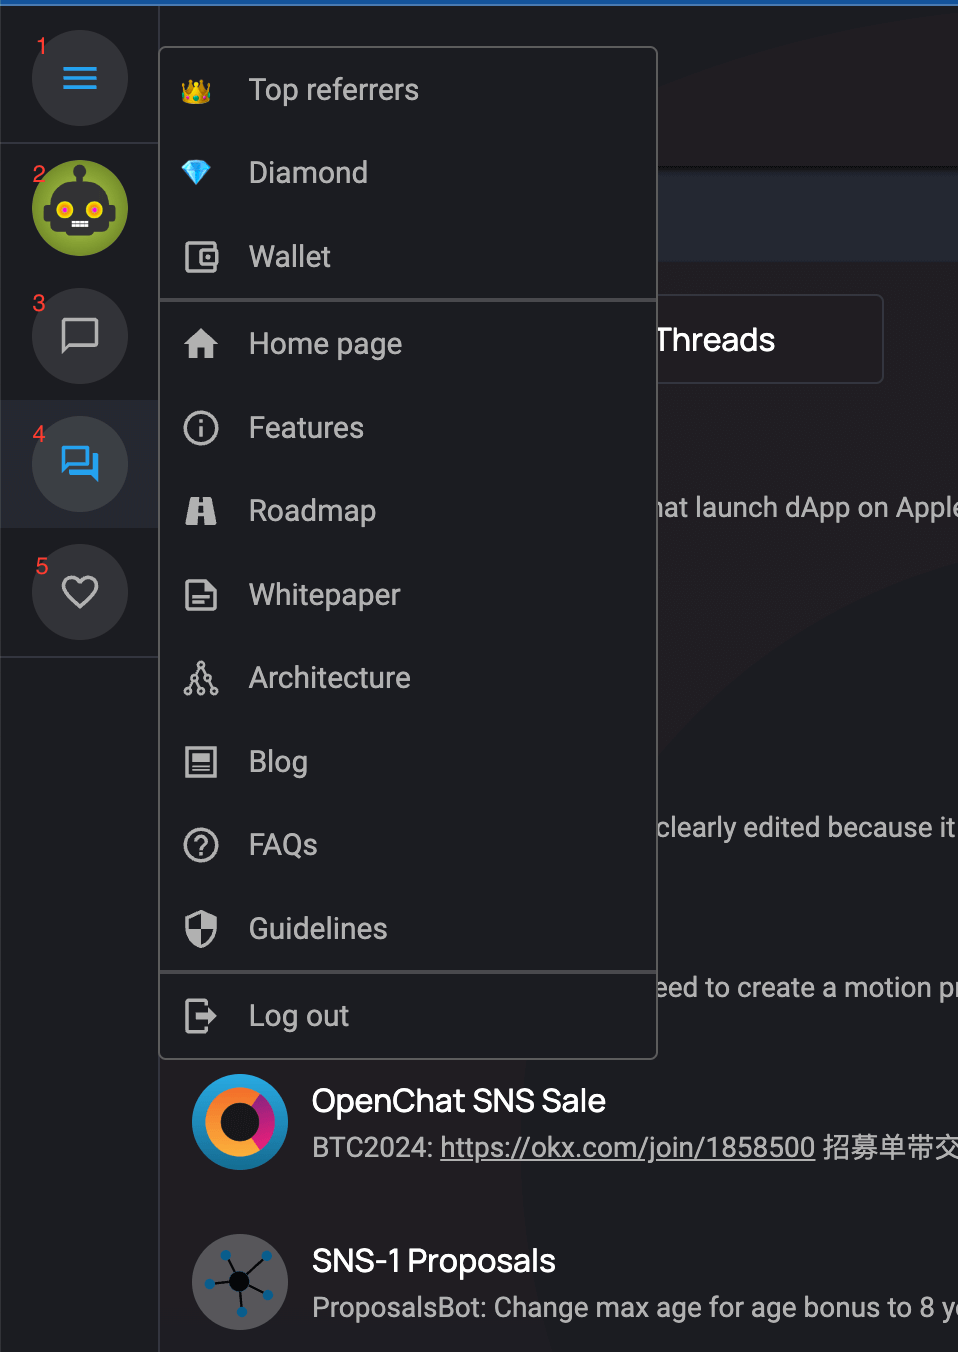
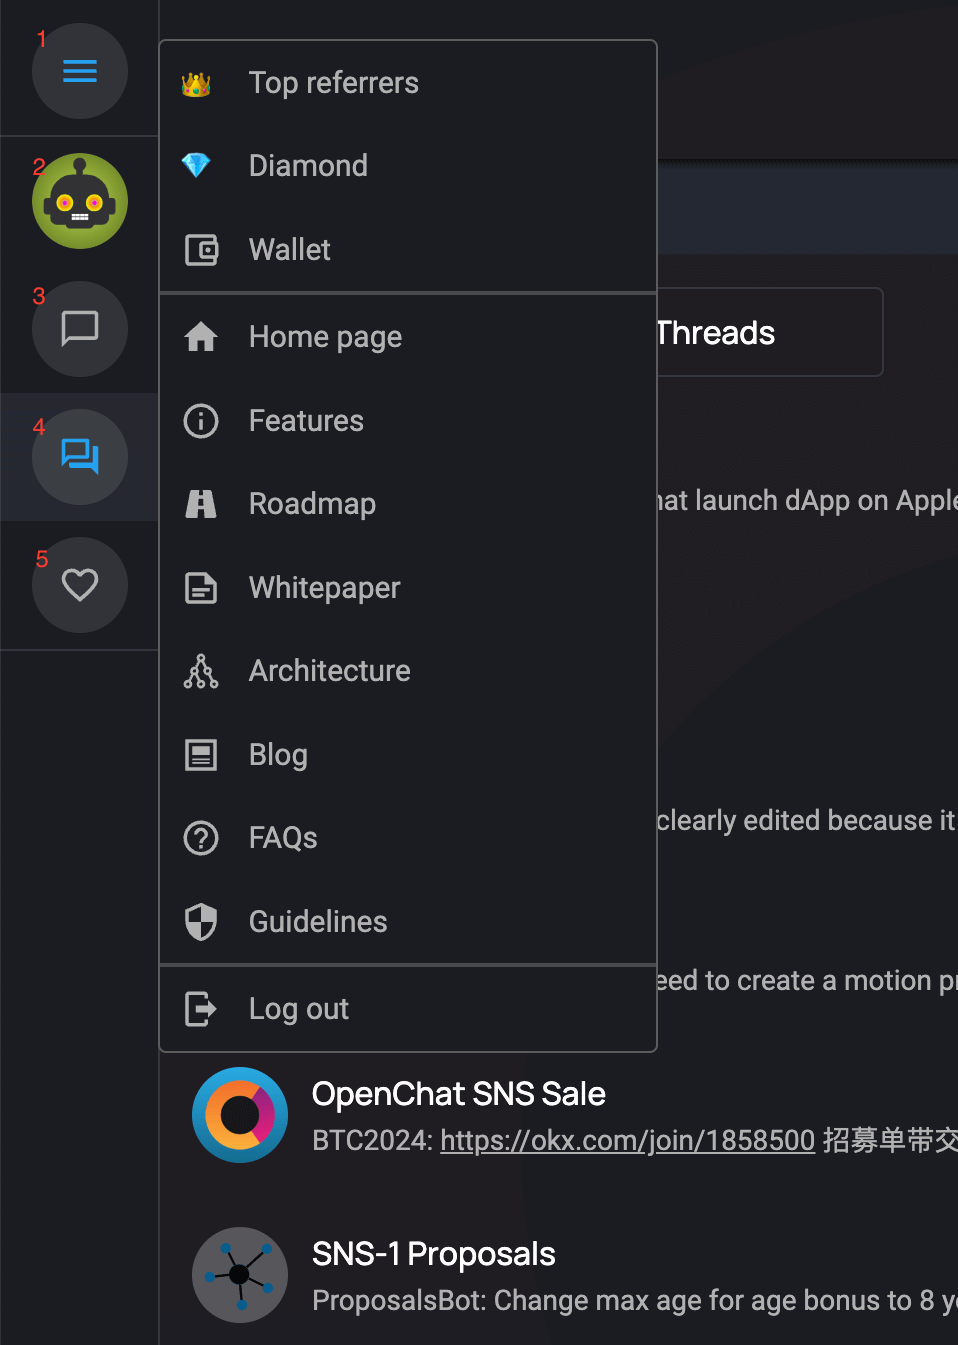
A few more fixes and enhancements (#3986)

diff --git a/frontend/app/src/components/home/NoChatSelected.svelte b/frontend/app/src/components/home/NoChatSelected.svelte
@@ -3,7 +3,7 @@
     import { _ } from "svelte-i18n";
     import page from "page";
     import { getContext } from "svelte";
-    import type { OpenChat } from "openchat-client";
+    import type { ChatListScope, OpenChat } from "openchat-client";
     import { pushRightPanelHistory } from "../../stores/rightPanel";
     import CommunityCard from "./communities/explore/CommunityCard.svelte";
     import PreviewWrapper from "./communities/PreviewWrapper.svelte";
@@ -14,6 +14,8 @@
     $: chatListScope = client.chatListScope;
     $: selectedCommunity = client.selectedCommunity;
     $: previewingCommunity = $selectedCommunity?.membership.role === "none";
+
+    $: [title, message] = getMessageForScope($chatListScope.kind);
 
     function cancelPreview() {
         if ($selectedCommunity) {
@@ -27,6 +29,21 @@
             pushRightPanelHistory({
                 kind: "community_channels",
             });
+        }
+    }
+
+    function getMessageForScope(scope: ChatListScope["kind"]): [string, string] {
+        switch (scope) {
+            case "community":
+                return ["noChannelSelected", "selectAChannel"];
+            case "direct_chat":
+                return ["noUserSelected", "selectAUser"];
+            case "favourite":
+                return ["noChatSelected", "selectAFavourite"];
+            case "group_chat":
+                return ["noChatSelected", "selectAGroupChat"];
+            default:
+                return ["noChatSelected", "selectAChat"];
         }
     }
 </script>
@@ -56,17 +73,15 @@
             </div>
         </PreviewWrapper>
     </div>
-{:else if $chatListScope.kind !== "community"}
-    <div class="wrapper">
-        <h2 class="title">{$_("noChatSelected")}</h2>
-        <p class="subtitle">{$_("selectAChat")}</p>
-        <Button on:click={() => page("/hotgroups")}>{$_("showHotGroups")}</Button>
-    </div>
 {:else}
     <div class="wrapper">
-        <h2 class="title">{$_("communities.noChannelSelected")}</h2>
-        <p class="subtitle">{$_("communities.selectAChannel")}</p>
-        <Button on:click={showChannels}>{$_("communities.browseChannels")}</Button>
+        <h2 class="title">{$_(title)}</h2>
+        <p class="subtitle">{$_(message)}</p>
+        {#if $chatListScope.kind === "community"}
+            <Button on:click={showChannels}>{$_("communities.browseChannels")}</Button>
+        {:else if $chatListScope.kind === "group_chat"}
+            <Button on:click={() => page("/hotgroups")}>{$_("showHotGroups")}</Button>
+        {/if}
     </div>
 {/if}
 
@@ -82,6 +97,8 @@
         text-align: center;
         align-items: center;
         height: 100%;
+        max-width: 50%;
+        margin: auto;
 
         &.community {
             text-align: start;

diff --git a/frontend/app/src/components/landingpages/blog/CommunitiesReleased.svelte b/frontend/app/src/components/landingpages/blog/CommunitiesReleased.svelte
@@ -77,6 +77,21 @@
 </section>
 
 <section>
+    <h2>Where did my groups go???</h2>
+
+    <p>
+        If it seems like any of your groups have disappeared it might be that they have been
+        converted to communities. Don't worry, when a group is converted to a community, all the
+        group's members will automatically become members of the community. If one or more of your
+        groups has been converted, you will receive a message from the OpenChatBot (found within the
+        Direct Chats section) telling you about it and giving you a link to the converted community
+        and channel.
+    </p>
+
+    <p>We'll find out how to find other communities next.</p>
+</section>
+
+<section>
     <h2>Finding Communities</h2>
 
     <p>
@@ -134,9 +149,24 @@
         <div class="left">
             <h2>Creating Communities</h2>
 
+            <h3>When to create a community.</h3>
+
             <p>
-                What about if you want to create a community of your own? There are a couple of
-                common scenarios...
+                If you are (or would like to be) the owner of a larger community with a shared
+                interest of some kind and with the potential to have multiple separate streams of
+                conversation - then a community would be a good fit. The sort of thing that you
+                might use a Discord server for today.
+            </p>
+
+            <p>
+                Note that if you already run a public group and are quite happy with the way things
+                are then there is no need to change anything at all. Your group can carry on as
+                before as a global level public group.
+            </p>
+
+            <p>
+                If you <em>do</em> decide that you want to create a community of your own? There are
+                a couple of common scenarios...
             </p>
             <h3>Creating a community from scratch</h3>
             <p>

diff --git a/frontend/openchat-agent/src/services/group/mappers.ts b/frontend/openchat-agent/src/services/group/mappers.ts
@@ -439,18 +439,6 @@ export async function getEventsResponse(
             latestEventIndex,
         };
     }
-    if ("ChatNotFound" in candid) {
-        return "events_failed";
-    }
-    if ("ThreadNotFound" in candid) {
-        return "events_failed";
-    }
-    if ("CallerNotInGroup" in candid) {
-        return "events_failed";
-    }
-    if ("ThreadMessageNotFound" in candid) {
-        return "events_failed";
-    }
     if ("ReplicaNotUpToDate" in candid) {
         throw ReplicaNotUpToDateError.byEventIndex(
             candid.ReplicaNotUpToDate,
@@ -458,16 +446,8 @@ export async function getEventsResponse(
             false
         );
     }
-    if ("UserNotInChannel" in candid) {
-        return "events_failed";
-    }
-    if ("UserNotInCommunity" in candid) {
-        return "events_failed";
-    }
-    if ("ChannelNotFound" in candid) {
-        return "events_failed";
-    }
-    throw new UnsupportedValueError("Unexpected ApiEventsResponse type received", candid);
+    console.warn("GetGroupChatEvents failed with ", candid);
+    return "events_failed";
 }
 
 function groupChatEvent(candid: ApiGroupChatEvent): GroupChatEvent {

diff --git a/frontend/app/src/components/home/CurrentChatMessages.svelte b/frontend/app/src/components/home/CurrentChatMessages.svelte
@@ -65,6 +65,7 @@
     $: userStore = client.userStore;
     $: showAvatar = initialised && shouldShowAvatar(chat, events[0]?.index);
     $: selectedMessageContext = client.selectedMessageContext;
+    $: selectedCommunity = client.selectedCommunity;
 
     // treat this as if it might be null so we don't get errors when it's unmounted
     let chatEventList: ChatEventList | undefined;
@@ -198,10 +199,17 @@
         groupInner(filteredProposals)
     );
 
-    $: privatePreview =
+    $: privateCommunityPreview =
+        $selectedCommunity !== undefined &&
+        !$selectedCommunity.public &&
+        $selectedCommunity.membership.role === "none";
+
+    $: privateChatPreview =
         (chat.kind === "group_chat" || chat.kind === "channel") &&
         chat.membership.role === "none" &&
         !chat.public;
+
+    $: privatePreview = privateCommunityPreview || privateChatPreview;
     $: isEmptyChat = chat.latestEventIndex <= 0 || privatePreview;
 
     $: {

diff --git a/frontend/app/src/components/SectionHeader.svelte b/frontend/app/src/components/SectionHeader.svelte
@@ -3,6 +3,7 @@
 
     export let flush: boolean = false;
     export let shadow: boolean = false;
+    export let slim: boolean = false;
     export let entry = false;
     export let gap = false;
     export let border = true;
@@ -16,6 +17,7 @@
     class:shadow
     class:entry
     class:gap
+    class:slim
     class:rtl={$rtlStore}
     bind:clientHeight={height}>
     <slot />
@@ -30,13 +32,17 @@
         width: 100%;
         padding: $sp4 $sp5;
         height: toRem(80);
-        // margin-bottom: $sp3;
         background-color: var(--section-bg);
         @include z-index("section-header");
         flex: 0 0 toRem(80);
 
         @include mobile() {
             padding: $sp3 toRem(10);
+
+            &.slim {
+                height: toRem(56);
+                flex: 0 0 toRem(56);
+            }
         }
 
         &.border {

diff --git a/frontend/openchat-agent/src/services/community/candid/types.d.ts b/frontend/openchat-agent/src/services/community/candid/types.d.ts
@@ -153,7 +153,10 @@ export interface ChannelMembershipUpdates {
   'mentions' : Array<Mention>,
   'my_metrics' : [] | [ChatMetrics],
 }
-export interface ChannelSummaryArgs { 'channel_id' : ChannelId }
+export interface ChannelSummaryArgs {
+  'channel_id' : ChannelId,
+  'invite_code' : [] | [bigint],
+}
 export type ChannelSummaryResponse = { 'ChannelNotFound' : null } |
   { 'Success' : CommunityCanisterChannelSummary } |
   { 'PrivateCommunity' : null } |
@@ -161,6 +164,7 @@ export type ChannelSummaryResponse = { 'ChannelNotFound' : null } |
 export interface ChannelSummaryUpdatesArgs {
   'channel_id' : ChannelId,
   'updates_since' : TimestampMillis,
+  'invite_code' : [] | [bigint],
 }
 export type ChannelSummaryUpdatesResponse = {
     'SuccessAdded' : CommunityCanisterChannelSummary

diff --git a/frontend/openchat-agent/src/services/community/candid/idl.js b/frontend/openchat-agent/src/services/community/candid/idl.js
@@ -121,7 +121,10 @@ export const idlFactory = ({ IDL }) => {
     'TargetUserNotInCommunity' : IDL.Null,
     'InternalError' : IDL.Text,
   });
-  const ChannelSummaryArgs = IDL.Record({ 'channel_id' : ChannelId });
+  const ChannelSummaryArgs = IDL.Record({
+    'channel_id' : ChannelId,
+    'invite_code' : IDL.Opt(IDL.Nat64),
+  });
   const PermissionRole = IDL.Variant({
     'Moderators' : IDL.Null,
     'Owner' : IDL.Null,
@@ -614,6 +617,7 @@ export const idlFactory = ({ IDL }) => {
   const ChannelSummaryUpdatesArgs = IDL.Record({
     'channel_id' : ChannelId,
     'updates_since' : TimestampMillis,
+    'invite_code' : IDL.Opt(IDL.Nat64),
   });
   const GroupSubtypeUpdate = IDL.Variant({
     'NoChange' : IDL.Null,

diff --git a/frontend/openchat-agent/src/services/community/community.client.ts b/frontend/openchat-agent/src/services/community/community.client.ts
@@ -967,6 +967,7 @@ export class CommunityClient extends CandidService {
             () =>
                 this.service.channel_summary({
                     channel_id: BigInt(chatId.channelId),
+                    invite_code: apiOptional(textToCode, this.inviteCode),
                 }),
             (resp) => communityChannelSummaryResponse(resp, this.communityId)
         );

diff --git a/frontend/app/src/components/home/communities/DirectChatsHeader.svelte b/frontend/app/src/components/home/communities/DirectChatsHeader.svelte
@@ -5,7 +5,7 @@
     import { iconSize } from "../../../stores/iconSize";
 </script>
 
-<SectionHeader border={false}>
+<SectionHeader slim border={false}>
     <div class="direct-chats">
         <div class="icon">
             <MessageOutline size={$iconSize} color={"var(--icon-txt)"} />

diff --git a/frontend/app/src/components/home/communities/FavouriteChatsHeader.svelte b/frontend/app/src/components/home/communities/FavouriteChatsHeader.svelte
@@ -5,7 +5,7 @@
     import { iconSize } from "../../../stores/iconSize";
 </script>
 
-<SectionHeader border={false}>
+<SectionHeader slim border={false}>
     <div class="favourites">
         <div class="icon">
             <HeartOutline size={$iconSize} color={"var(--icon-txt)"} />

diff --git a/frontend/app/src/components/home/communities/GroupChatsHeader.svelte b/frontend/app/src/components/home/communities/GroupChatsHeader.svelte
@@ -10,7 +10,7 @@
     const dispatch = createEventDispatcher();
 </script>
 
-<SectionHeader border={false}>
+<SectionHeader slim border={false}>
     <div class="group-chats">
         <div class="icon">
             <ForumOutline size={$iconSize} color={"var(--icon-txt)"} />

diff --git a/frontend/app/src/components/Panel.svelte b/frontend/app/src/components/Panel.svelte
@@ -109,6 +109,7 @@
 
             @include mobile() {
                 width: toRem(60);
+                padding: $sp1 0;
             }
 
             &.hovering {
